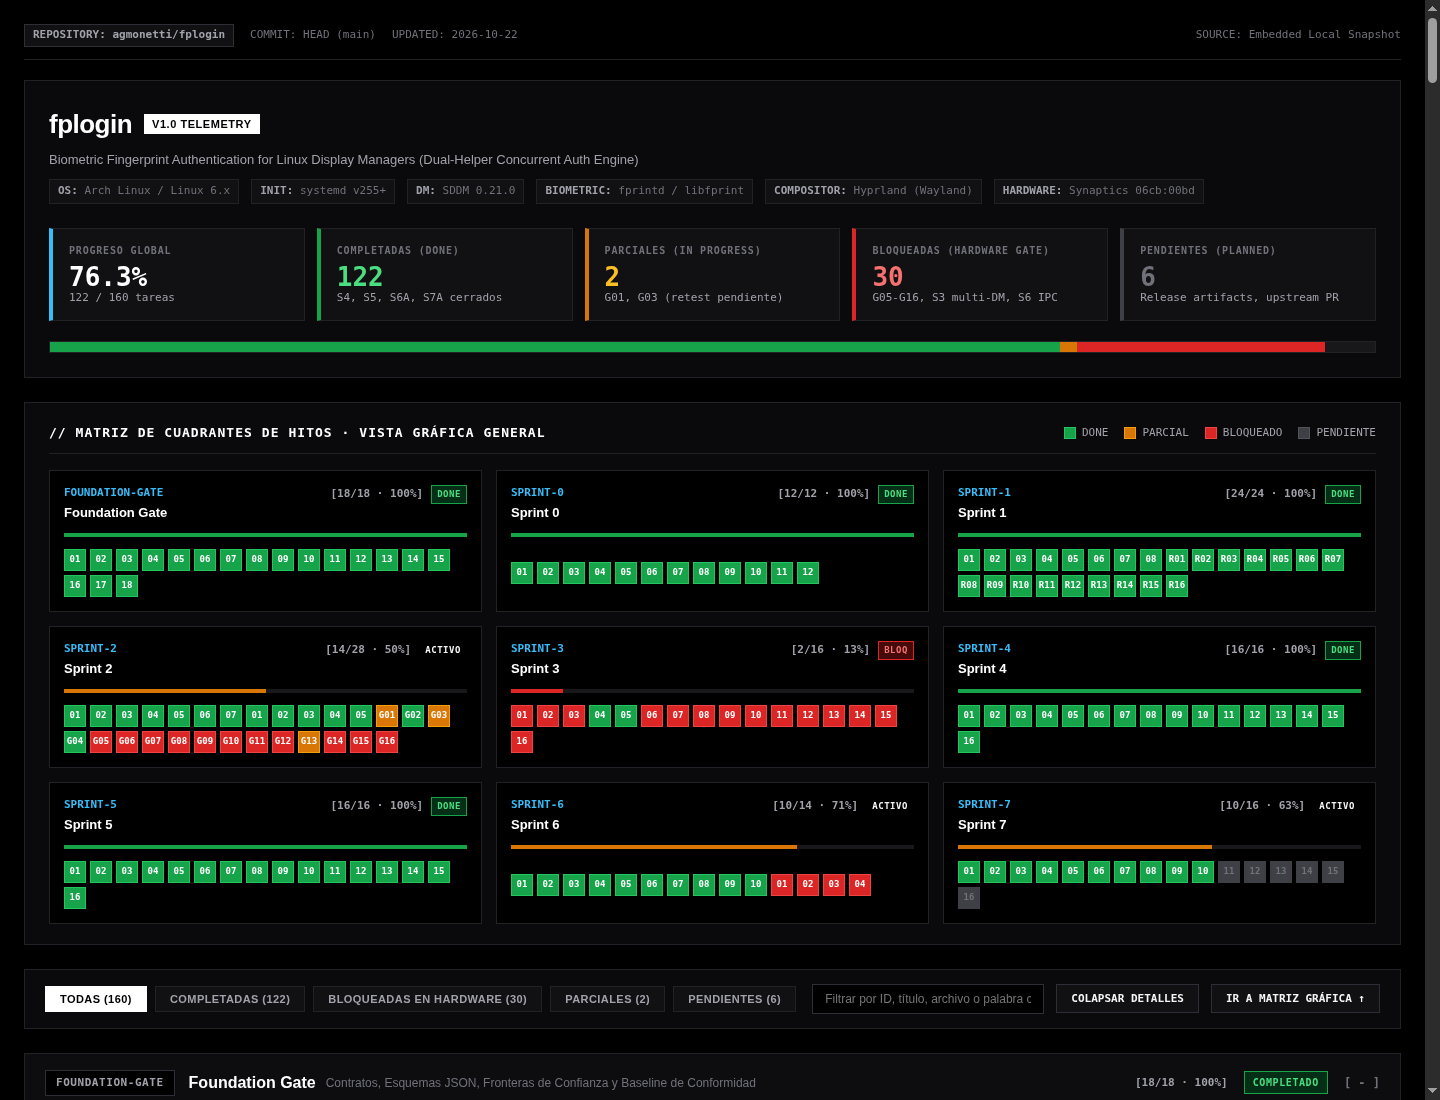
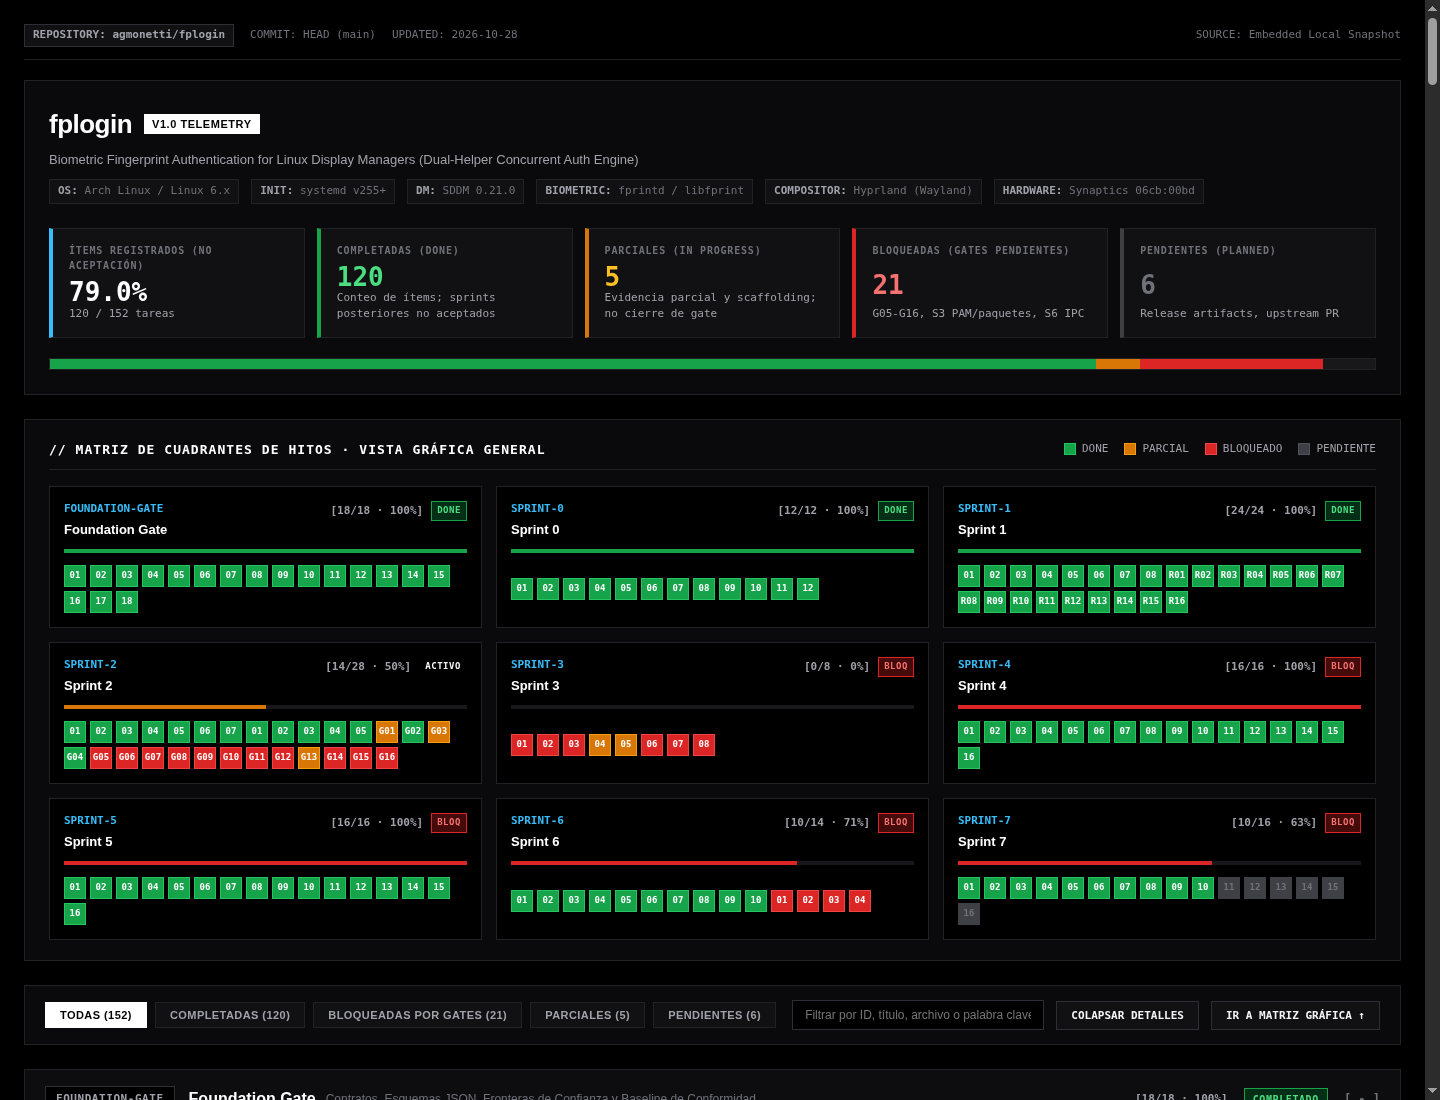
docs: align dashboard scope and acceptance gates with approved plans

diff --git a/dashboard.html b/dashboard.html
@@ -905,24 +905,24 @@
     <!-- Global Metrics Grid -->
     <div class="metrics-summary-grid mono">
       <div class="metric-card accent">
-        <div class="metric-label">Progreso Global</div>
-        <div class="metric-val" id="val-pct">75.0%</div>
-        <div class="metric-sub" id="val-fraction">120 / 160 tareas</div>
+        <div class="metric-label">Ítems registrados (no aceptación)</div>
+        <div class="metric-val" id="val-pct">79.0%</div>
+        <div class="metric-sub" id="val-fraction">120 / 152 tareas</div>
       </div>
       <div class="metric-card done">
         <div class="metric-label">Completadas (Done)</div>
         <div class="metric-val" id="val-done" style="color: var(--status-done-text);">120</div>
-        <div class="metric-sub">S4, S5, S6A, S7A cerrados</div>
+        <div class="metric-sub">Conteo de ítems; sprints posteriores no aceptados</div>
       </div>
       <div class="metric-card partial">
         <div class="metric-label">Parciales (In Progress)</div>
-        <div class="metric-val" id="val-partial" style="color: var(--status-partial-text);">2</div>
-        <div class="metric-sub">G01, G03 (retest pendiente)</div>
+        <div class="metric-val" id="val-partial" style="color: var(--status-partial-text);">5</div>
+        <div class="metric-sub">Evidencia parcial y scaffolding; no cierre de gate</div>
       </div>
       <div class="metric-card blocked">
-        <div class="metric-label">Bloqueadas (Hardware Gate)</div>
-        <div class="metric-val" id="val-blocked" style="color: var(--status-blocked-text);">32</div>
-        <div class="metric-sub">G05-G16, S3 multi-DM, S6 IPC</div>
+        <div class="metric-label">Bloqueadas (gates pendientes)</div>
+        <div class="metric-val" id="val-blocked" style="color: var(--status-blocked-text);">21</div>
+        <div class="metric-sub">G05-G16, S3 PAM/paquetes, S6 IPC</div>
       </div>
       <div class="metric-card pending">
         <div class="metric-label">Pendientes (Planned)</div>
@@ -965,7 +965,7 @@
     <div class="filters-group mono">
       <button class="filter-btn active" data-filter="all">TODAS (<span id="cnt-filter-all">160</span>)</button>
       <button class="filter-btn done" data-filter="done">COMPLETADAS (<span id="cnt-filter-done">120</span>)</button>
-      <button class="filter-btn blocked" data-filter="blocked">BLOQUEADAS EN HARDWARE (<span id="cnt-filter-blocked">32</span>)</button>
+      <button class="filter-btn blocked" data-filter="blocked">BLOQUEADAS POR GATES (<span id="cnt-filter-blocked">21</span>)</button>
       <button class="filter-btn partial" data-filter="partial">PARCIALES (<span id="cnt-filter-partial">2</span>)</button>
       <button class="filter-btn pending" data-filter="pending">PENDIENTES (<span id="cnt-filter-pending">6</span>)</button>
     </div>
@@ -1026,7 +1026,7 @@
     <div class="modal-field">
       <div class="modal-label">CRITERIOS DE CONFORMIDAD Y TESTS</div>
       <div class="modal-value" id="modal-criteria">
-        Suite de pruebas unitarias y fuzzer nativo de Go (>90,000 ejecuciones aleatorias) verificando tolerancia a fallos, truncamiento y validación estricta de esquemas.
+        Suite de pruebas unitarias y fuzzer nativo de Go (&gt;90,000 ejecuciones aleatorias) verificando tolerancia a fallos, truncamiento y validación estricta de esquemas.
       </div>
     </div>
   </div>
@@ -1040,18 +1040,18 @@
     "tagline": "Biometric Fingerprint Authentication for Linux Display Managers",
     "target_v1": "Arch Linux · systemd · SDDM 0.21.0 · fprintd / libfprint · Hyprland",
     "reference_hardware": "Synaptics 06cb:00bd (match-on-sensor USB)",
-    "last_updated": "2026-10-22",
+    "last_updated": "2026-10-28",
     "current_gate": "Sprint 2 (Repetir / Bloqueado en Hardware Real)",
     "current_gate_status": "in_progress",
-    "latest_achievement": "CI automatizado (.github/workflows), PKGBUILD Arch verificado y target make ci integrado",
-    "next_step": "G05 a G16: Retesteo físico en hardware con sensor Synaptics bajo temporización de eventos de invitado (sin reloj de chat)",
+    "latest_achievement": "G04 documentado; checkpoint diagnóstico G05 preservado. Receta Go existente, no aceptación del paquete SDDM parcheado.",
+    "next_step": "Completar y revisar preparación offline G05. Despliegue y retesteo físico requieren autorización nueva; Sprint 3 sigue bloqueado.",
     "summary": {
-      "total_items": 160,
-      "done": 122,
-      "partial": 2,
-      "blocked": 30,
+      "total_items": 152,
+      "done": 120,
+      "partial": 5,
+      "blocked": 21,
       "pending": 6,
-      "percentage": 76.25
+      "percentage": 78.95
     }
   },
   "sprints": [
@@ -1691,8 +1691,8 @@
       "summary": {
         "total": 28,
         "done": 14,
-        "partial": 2,
-        "blocked": 12,
+        "partial": 3,
+        "blocked": 11,
         "pending": 0,
         "percentage": 50.0
       }
@@ -1700,137 +1700,81 @@
     {
       "id": "sprint-3",
       "name": "Sprint 3",
-      "subtitle": "Coexistencia de Display Managers, Migración y Empaquetado",
+      "subtitle": "Servicio PAM y Empaquetado Arch/SDDM — pendiente de aceptación de Sprint 2",
       "status": "blocked",
-      "goal": "Construir soporte para múltiples Display Managers (LightDM, GDM, SDDM), conmutación de alias de systemd display-manager.service, rollback automático ante fallo de arranque y empaquetado AUR/PKGBUILD.",
+      "goal": "Empaquetar reproduciblemente SDDM parcheado, servicio PAM dedicado y tema para Arch, con recuperación TTY y retorno a SDDM stock. Alcance: docs/IMPLEMENTATION_PLAN.md, Sprint 3. Migración automatizada corresponde a Sprint 4; nuevos adapters y distribuciones quedan fuera de v1.",
       "items": [
         {
           "id": "S3-01",
           "title": "Definición de Servicio PAM sddm-fingerprint",
           "status": "blocked",
-          "description": "Especificación modular de la pila PAM para huella según la distribución (Arch, Fedora, Debian) sin modificar system-auth.",
-          "evidence": "adapters/sddm/packaging/pam/"
+          "description": "Servicio dedicado para Arch que no modifica PAM global ni el servicio sddm de contraseña. Entregable pendiente, no evidencia de implementación.",
+          "evidence": "docs/IMPLEMENTATION_PLAN.md"
         },
         {
           "id": "S3-02",
           "title": "Política de Cuentas y Sesión de la Distribución",
           "status": "blocked",
-          "description": "Integración de módulos pam_nologin, pam_limits y pam_systemd en el flujo secundario.",
-          "evidence": "adapters/sddm/packaging/pam/"
+          "description": "Reutilizar la política Arch de cuenta y sesión sin invocar autenticación por contraseña después del éxito biométrico; verificar restricciones de cuenta y apertura de sesión.",
+          "evidence": "docs/IMPLEMENTATION_PLAN.md"
         },
         {
           "id": "S3-03",
           "title": "Parámetros de Módulo de Reintento y Timeout",
           "status": "blocked",
-          "description": "Configuración declarativa de max_tries y timeout_seconds para pam_fprintd en archivo drop-in.",
-          "evidence": "adapters/sddm/packaging/pam/"
+          "description": "Definir y verificar reintentos y timeout del servicio PAM dedicado, diferenciándolos del deadline del daemon; no asumir parámetros de módulo sin validarlos.",
+          "evidence": "docs/IMPLEMENTATION_PLAN.md"
         },
         {
           "id": "S3-04",
-          "title": "Receta Arch PKGBUILD para fplogin",
-          "status": "done",
-          "description": "Script de empaquetado oficial para Arch Linux que compila binarios Go, instala descriptores y empaqueta el tema QML.",
+          "title": "Receta Arch para el Stack SDDM Parcheado",
+          "status": "partial",
+          "description": "Existe receta para herramientas Go y descriptores. No compila SDDM parcheado: faltan fuente y serie aceptada fijadas por checksum, sin overlays diagnósticos. Sprint 3 no iniciado ni aceptado.",
           "evidence": "platforms/arch/PKGBUILD"
         },
         {
           "id": "S3-05",
           "title": "Reglas de Conflicts / Provides en Gestor de Paquetes",
-          "status": "done",
-          "description": "Definición de dependencias pacman evitando conflictos con sddm upstream mediante sustitución o drop-ins limpios.",
+          "status": "partial",
+          "description": "La receta existente declara provides/conflicts de fplogin, no de SDDM. Falta definir conservadoramente propiedad, dependencias y reemplazo/retorno del paquete SDDM; sin sustitución automática aprobada.",
           "evidence": "platforms/arch/PKGBUILD"
         },
         {
           "id": "S3-06",
           "title": "Empaquetado de Tema y Assets de Interfaz",
           "status": "blocked",
-          "description": "Instalación de iconos vectoriales, fuentes y componentes QML en /usr/share/sddm/themes/fplogin/ con permisos de lectura.",
-          "evidence": "adapters/sddm/themes/"
+          "description": "Empaquetar los assets existentes y licencias con propiedad y modos correctos; comprobar que Main.qml quede en la raíz del tema, no bajo theme/. No añadir fuentes o iconos no requeridos.",
+          "evidence": "adapters/sddm/assets/theme/"
         },
         {
           "id": "S3-07",
-          "title": "Configuración Drop-in de SDDM (/etc/sddm.conf.d/)",
+          "title": "Recuperación TTY y Retorno a SDDM Stock",
           "status": "blocked",
-          "description": "Generación automática del archivo 90-fplogin.conf configurando Current=fplogin sin pisar sddm.conf global.",
-          "evidence": "adapters/sddm/packaging/"
+          "description": "Documentar y verificar retirada/reemplazo del paquete y retorno a contraseña con SDDM stock. Quitar el paquete no reinstala stock por sí solo. Automatización del instalador pertenece a Sprint 4.",
+          "evidence": "docs/IMPLEMENTATION_PLAN.md"
         },
         {
           "id": "S3-08",
           "title": "Verificación de Compilación en Chroot Limpio",
           "status": "blocked",
-          "description": "Prueba con devtools (extra-x86_64-build) garantizando que el paquete compila de forma reproducible en entorno estéril.",
-          "evidence": "docs/packaging/REPRODUCIBLE.md"
-        },
-        {
-          "id": "S3-09",
-          "title": "Sonda de Detección de Greeter Activo LightDM",
-          "status": "blocked",
-          "description": "Inspección de /etc/lightdm/lightdm.conf y procesos lightdm en ejecución para determinar el greeter activo.",
-          "evidence": "adapters/lightdm/detector.go"
-        },
-        {
-          "id": "S3-10",
-          "title": "Matriz de Compatibilidad PAM para GDM (GNOME)",
-          "status": "blocked",
-          "description": "Análisis de la pila gdm-fingerprint nativa de GNOME y estrategias de co-existencia sin interferencias.",
-          "evidence": "docs/architecture/GDM_COEXISTENCE.md"
-        },
-        {
-          "id": "S3-11",
-          "title": "Conmutador de Alias display-manager.service en systemd",
-          "status": "blocked",
-          "description": "Módulo seguro para redirigir el symlink /etc/systemd/system/display-manager.service de forma atómica.",
-          "evidence": "internal/core/install/ops.go"
-        },
-        {
-          "id": "S3-12",
-          "title": "Hook Atómico de Backup y Rollback de PAM",
-          "status": "blocked",
-          "description": "Respaldo de cada archivo PAM afectado antes de cualquier cambio y restauración garantizada ante señal de interrupción.",
-          "evidence": "internal/core/install/ops.go"
-        },
-        {
-          "id": "S3-13",
-          "title": "Rollback Automático por Fallo de Inicio de DM",
-          "status": "blocked",
-          "description": "Watchdog que detecta si el nuevo Display Manager falla al iniciar y restaura el DM anterior en menos de 10 segundos.",
-          "evidence": "internal/core/install/installer.go"
-        },
-        {
-          "id": "S3-14",
-          "title": "Detector de Conflictos Multi-Sesión y Wayland",
-          "status": "blocked",
-          "description": "Verificación de variables XDG_SESSION_TYPE y compatibilidad con drivers propietarios NVIDIA antes de conmutar.",
-          "evidence": "internal/core/analyze/session.go"
-        },
-        {
-          "id": "S3-15",
-          "title": "Generador de Plan de Migración de DM (Dry-Run)",
-          "status": "blocked",
-          "description": "Modo de simulación que imprime exactamente qué symlinks y servicios se modificarían sin tocar el disco.",
-          "evidence": "cmd/fplogin/main.go"
-        },
-        {
-          "id": "S3-16",
-          "title": "Arnés de Pruebas de Coexistencia de DMs",
-          "status": "blocked",
-          "description": "Test automatizado en máquina virtual con LightDM y SDDM instalados en paralelo conmutando ida y vuelta con éxito.",
-          "evidence": "tests/integration/core/dm_coexistence_test.go"
+          "description": "Construir en entorno Arch limpio, registrar herramientas/fuentes y comparar reconstrucciones. Verificar archivos package-owned, modos y hashes; después, ciclo de instalación, ambos métodos, restricciones de cuenta y rollback en invitado autorizado. Compilar no prueba reproducibilidad ni aceptación.",
+          "evidence": "docs/IMPLEMENTATION_PLAN.md"
         }
       ],
       "summary": {
-        "total": 16,
-        "done": 2,
-        "partial": 0,
-        "blocked": 14,
+        "total": 8,
+        "done": 0,
+        "partial": 2,
+        "blocked": 6,
         "pending": 0,
-        "percentage": 12.5
+        "percentage": 0.0
       }
     },
     {
       "id": "sprint-4",
       "name": "Sprint 4",
-      "subtitle": "Motor Transaccional Core, Journaling WAL y Operaciones Atómicas (100% Completado)",
-      "status": "done",
+      "subtitle": "Motor Transaccional — avances registrados, sprint no aceptado",
+      "status": "blocked",
       "goal": "Construir el motor de transacciones con escritura anticipada (WAL), compensación de rollback ante caídas, validación estricta de rutas canónicas, orquestador de 13 fases y desinstalador verificado por checksums.",
       "items": [
         {
@@ -1958,8 +1902,8 @@
     {
       "id": "sprint-5",
       "name": "Sprint 5",
-      "subtitle": "Analizador de Diferencias del Sistema (System Difference Analyzer, 100% Completado)",
-      "status": "done",
+      "subtitle": "Analizador — avances registrados, sprint no aceptado",
+      "status": "blocked",
       "goal": "Desarrollar un analizador de solo lectura que audita recursivamente la configuración PAM, detecta almacenes de credenciales (KWallet, GNOME Keyring), volúmenes cifrados (systemd-homed, crypttab) e impacto en compositores.",
       "items": [
         {
@@ -2087,8 +2031,8 @@
     {
       "id": "sprint-6",
       "name": "Sprint 6",
-      "subtitle": "Hardening de Seguridad, Validación AST y Aislamiento de Recursos (Sprint 6A 100% Completado)",
-      "status": "in_progress",
+      "subtitle": "Seguridad — avances registrados, aceptación pendiente de gates previos",
+      "status": "blocked",
       "goal": "Blindar el núcleo contra ataques de evasión de symlinks, fugas de secretos en registros/reportes, límites de buffers en subprocesos, verificación AST de fronteras core y pruebas de robustez.",
       "items": [
         {
@@ -2202,8 +2146,8 @@
     {
       "id": "sprint-7",
       "name": "Sprint 7",
-      "subtitle": "Documentación de Release, Automatización de Build, Subprocesos y Telemetría (Sprint 7A 100% Completado)",
-      "status": "in_progress",
+      "subtitle": "Release — avances registrados, aceptación pendiente de gates previos",
+      "status": "blocked",
       "goal": "Publicar guías de recuperación de emergencia, matriz de soporte, binarios de subprocesos fuera de proceso para Arch y SDDM, pruebas de pipes IPC E2E y telemetría granular de proyecto.",
       "items": [
         {
@@ -2619,9 +2563,9 @@
     document.getElementById('modal-evidence').textContent = item.evidence || 'N/A';
 
     const statusLabel = 
-      item.status === 'done' ? 'COMPLETADO (100% VERIFICADO)' :
+      item.status === 'done' ? 'REGISTRADO COMO COMPLETADO (NO ACEPTACIÓN DEL SPRINT)' :
       item.status === 'partial' ? 'EN PROGRESO / PARCIALMENTE OBSERVADO' :
-      item.status === 'blocked' ? 'BLOQUEADO EN COMPUERTA DE HARDWARE FÍSICO' : 'PENDIENTE / PLANIFICADO';
+      item.status === 'blocked' ? 'BLOQUEADO POR GATE PENDIENTE' : 'PENDIENTE / PLANIFICADO';
 
     document.getElementById('modal-badge-container').innerHTML = `
       <span class="badge-status ${item.status} mono" style="font-size: 11px; padding: 4px 10px;">${statusLabel}</span>
@@ -2629,9 +2573,9 @@
 
     document.getElementById('modal-criteria').textContent = 
       item.status === 'done' 
-        ? `Verificado exhaustivamente mediante contratos formales, suite Go 'make test', análisis de AST estático y pruebas de integración E2E.`
+        ? `Consultar la evidencia y las revisiones .md para comandos, resultados y límites. Este estado no acredita por sí solo pruebas E2E ni aceptación del sprint.`
         : item.status === 'blocked'
-        ? `Bloqueado hasta disponer del sensor Synaptics en el equipo físico. Requiere interacción del operador bajo temporización de eventos de invitado.`
+        ? `Consultar el plan y la revisión .md: puede requerir aceptación de sprints previos, implementación o evidencia física. Ningún estado autoriza despliegue ni uso del lector.`
         : `En proceso de ejecución conforme al plan de implementación de fplogin.`;
 
     modal.classList.add('active');
